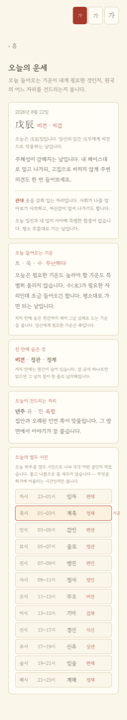
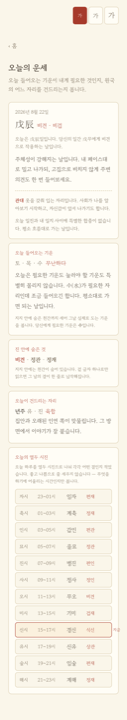
feat(reset): 초기화 — 이름도 동작도 반쪽이었다
"사주를 한 번 보면 초기화하는 기능이 없다" 는 지적. 사실 「다른 사람
사주 보기」가 있었는데 두 가지가 문제였다.

이름이 하는 일을 안 담고 있었다
  "다른 사람 사주 보기" 는 남의 사주를 보는 것으로 읽힌다. 처음부터
  다시라는 뜻으로는 안 읽힌다. 하는 일은 같은데 이름이 그걸 못 가렸다.
  → 「처음부터 다시 — 다른 사주 보기」

★주소에 앞 사람이 남아 있었다★
  더 조용한 쪽이다. 공유 링크(#r=…)로 들어와 「다시 보기」를 누르면
  화면은 비워지는데 주소에는 토큰이 그대로 남는다. 새로고침 한 번에
  앞 사람 사주가 되살아난다. reset() 이 프래그먼트도 지우게 했고,
  E2E 가 실제로 새로고침해서 확인한다.

★"브라우저에서 지우세요" 는 안내가 아니라 떠넘기기다★
  처리방침의 "지우고 싶어요" 문답이 그렇게 적혀 있었다. 관객이 부모님
  세대인데 브라우저 설정에서 사이트 데이터를 찾으라고 하면 못 지운다.
  우리가 만든 것이니 우리가 지우는 버튼을 준다.

  「이 기기에서 전부 지우기」가 저장한 셋(마지막 입력·인생 기록·첫 화면을
  봤다는 표시)과 주소의 토큰을 함께 지우고 첫 화면으로 돌려보낸다.
  되돌릴 수 없으므로 한 번 묻는다 — 곧바로 눌리는 자리에 있으면 손이
  미끄러진다.

  E2E 가 지운 뒤 localStorage 에 myeongri. 로 시작하는 키가 하나도
  남지 않는지까지 본다.

홈의 처리방침 링크도 "어디로 가는지 · 지우는 법" 으로 바꿨다.
지우는 법이 거기 있다는 걸 알 방법이 없었다.

556 unit + 246 e2e 통과.

Claude-Session: https://claude.ai/code/session_01RHGjvfhGTPYjrbdUVfbYY2

diff --git a/e2e/intro.spec.ts b/e2e/intro.spec.ts
@@ -126,7 +126,7 @@ test.describe('개인정보 처리방침', () => {
   test('홈에서도 열리고 홈으로 돌아온다', async ({ page }) => {
     await firstVisit(page);
     await page.getByRole('button', { name: '시작하기' }).click();
-    await page.getByRole('button', { name: '어디로 가는지 자세히 보기' }).click();
+    await page.getByRole('button', { name: '어디로 가는지 · 지우는 법' }).click();
     await expect(page.getByRole('heading', { name: '생년월일은 어디로 가나요' })).toBeVisible();
     await page.getByRole('button', { name: '‹ 돌아가기' }).click();
     await expect(page.getByRole('button', { name: /^사주 보기/ })).toBeVisible();
@@ -247,5 +247,88 @@ test.describe('용어 — 모르는 말이 나오면', () => {
     await page.getByRole('button', { name: '리포트 · 인쇄하기' }).click();
     await expect(page.getByRole('heading', { name: '용어' })).toBeVisible();
     await expect(page.getByText(/이 문서의 뜻입니다/)).toBeVisible();
+  });
+});
+
+
+test.describe('초기화 — 남는 것 없이', () => {
+  async function toResult(page: import('@playwright/test').Page) {
+    await firstVisit(page);
+    await page.getByRole('button', { name: '시작하기' }).click();
+    await page.getByRole('button', { name: /^사주 보기/ }).click();
+    await page.getByLabel('년', { exact: true }).selectOption('1957');
+    await page.getByRole('button', { name: '사주 풀어보기' }).click();
+    await expect(page.getByRole('region', { name: '대운 인생 타임라인' })).toBeVisible();
+  }
+
+  test('★공유 링크로 들어와도 다시 보기를 누르면 주소가 남지 않는다★', async ({
+    page,
+    context,
+  }) => {
+    /*
+     * 화면은 비워지는데 주소에는 앞 사람이 그대로 남아 있었다.
+     * 새로고침 한 번에 되살아난다.
+     */
+    await context.grantPermissions(['clipboard-read', 'clipboard-write']);
+    await toResult(page);
+    await page.getByRole('button', { name: '결과 링크 복사' }).click();
+    const url = await page.evaluate(() => navigator.clipboard.readText());
+
+    const fresh = await context.newPage();
+    await fresh.goto(url);
+    await expect(fresh.getByRole('region', { name: '대운 인생 타임라인' })).toBeVisible();
+
+    await fresh.getByRole('button', { name: /^처음부터 다시/ }).click();
+    expect(fresh.url()).not.toContain('#r=');
+
+    await fresh.reload();
+    await expect(fresh.getByRole('region', { name: '대운 인생 타임라인' })).toHaveCount(0);
+    await fresh.close();
+  });
+
+  test('★전부 지우면 처음 온 사람이 된다★', async ({ page }) => {
+    await toResult(page);
+    // 대운 칸에 기록을 남기고
+    const tl = page.getByRole('region', { name: '대운 인생 타임라인' });
+    await tl.locator('ol > li').first().getByRole('button').first().click();
+    await tl.locator('textarea').first().fill('여기 적어둔 것');
+
+    await page.getByRole('button', { name: /^홈으로/ }).click();
+    await page.getByRole('button', { name: '어디로 가는지 · 지우는 법' }).click();
+    await page.getByRole('button', { name: '이 기기에서 전부 지우기' }).click();
+
+    // 되돌릴 수 없으므로 한 번 묻는다
+    await expect(page.getByText('정말 지울까요? 되돌릴 수 없습니다.')).toBeVisible();
+    await page.getByRole('button', { name: '전부 지우기' }).click();
+
+    // 첫 화면으로 돌아온다
+    await expect(page.getByRole('button', { name: '시작하기' })).toBeVisible();
+
+    // 저장된 것이 하나도 없다
+    const left = await page.evaluate(() =>
+      Object.keys(localStorage).filter((k) => k.startsWith('myeongri.')),
+    );
+    expect(left).toEqual([]);
+  });
+
+  test('그만두기를 누르면 아무것도 안 지운다', async ({ page }) => {
+    await toResult(page);
+    await page.getByRole('button', { name: /^홈으로/ }).click();
+    await page.getByRole('button', { name: '어디로 가는지 · 지우는 법' }).click();
+    await page.getByRole('button', { name: '이 기기에서 전부 지우기' }).click();
+    await page.getByRole('button', { name: '그만두기' }).click();
+
+    const left = await page.evaluate(() =>
+      Object.keys(localStorage).filter((k) => k.startsWith('myeongri.')),
+    );
+    expect(left.length).toBeGreaterThan(0);
+  });
+
+  test('브라우저 설정으로 떠넘기지 않는다', async ({ page }) => {
+    await firstVisit(page);
+    await page.getByRole('button', { name: '생년월일은 어디로 가나요' }).click();
+    const body = await page.locator('body').innerText();
+    expect(body).not.toContain('브라우저에서 이 사이트의 데이터를 삭제');
+    await expect(page.getByRole('button', { name: '이 기기에서 전부 지우기' })).toBeVisible();
   });
 });

diff --git a/src/ui/Privacy.tsx b/src/ui/Privacy.tsx
@@ -17,7 +17,69 @@
  * 순서대로, 짧은 문장으로 적는다. 다만 **불리한 것도 빼지 않는다** —
  * 공유 링크를 받은 사람이 사주를 볼 수 있다는 사실이 그렇다.
  */
+import { useState } from 'react';
 import { useSajuStore } from '../store/saju-store';
+
+/**
+ * 전부 지우기.
+ *
+ * 예전에는 "브라우저에서 이 사이트의 데이터를 삭제하시면 됩니다" 라고
+ * 적어뒀다. 그건 안내가 아니라 떠넘기기다 — 관객이 부모님 세대인데
+ * 브라우저 설정에서 사이트 데이터를 찾으라고 하면 못 지운다.
+ * 우리가 만든 것이니 우리가 지우는 버튼을 준다.
+ *
+ * 되돌릴 수 없으므로 한 번 묻는다. 「지우기」가 곧바로 눌리는 자리에
+ * 있으면 손이 미끄러진다.
+ */
+function EraseAll() {
+  const resetAll = useSajuStore((s) => s.resetAll);
+  const [asked, setAsked] = useState(false);
+
+  return (
+    <div className="mt-10 border-t border-dashed border-line-dash pt-5">
+      <p className="text-base font-bold text-ink">지우고 싶어요</p>
+      <p className="mt-1.5 text-sm leading-[1.85] text-ink-soft">
+        이 기기에 남아 있는 것을 전부 지웁니다 — 마지막에 넣으신 생년월일,
+        대운 칸에 적어두신 기록, 첫 화면을 봤다는 표시입니다. 되돌릴 수 없습니다.
+      </p>
+
+      {asked ? (
+        <div className="mt-3 rounded-md border border-jumuk bg-card-warm px-3.5 py-3">
+          <p className="text-sm text-jumuk">정말 지울까요? 되돌릴 수 없습니다.</p>
+          <div className="mt-2.5 flex gap-2">
+            <button
+              type="button"
+              onClick={resetAll}
+              className="flex-1 rounded-md bg-jumuk px-3 py-2.5 text-sm font-bold text-card"
+            >
+              전부 지우기
+            </button>
+            <button
+              type="button"
+              onClick={() => setAsked(false)}
+              className="flex-1 rounded-md border border-line bg-card px-3 py-2.5 text-sm text-ink-soft"
+            >
+              그만두기
+            </button>
+          </div>
+        </div>
+      ) : (
+        <button
+          type="button"
+          onClick={() => setAsked(true)}
+          className="mt-3 w-full rounded-md border border-line bg-card px-4 py-2.5 text-sm text-ink-soft"
+        >
+          이 기기에서 전부 지우기
+        </button>
+      )}
+
+      <p className="mt-2.5 text-[11px] leading-relaxed text-ink-faint">
+        적어두신 글만 지우시려면 타임라인 아래 「적어둔 인생 기록 지우기」를
+        쓰시면 됩니다.
+      </p>
+    </div>
+  );
+}
 
 interface Item {
   q: string;
@@ -77,16 +139,6 @@ const ITEMS: Item[] = [
       </>
     ),
   },
-  {
-    q: '지우고 싶어요',
-    a: (
-      <>
-        타임라인 아래 「적어둔 인생 기록 지우기」로 적으신 글을 지우실 수
-        있습니다. 전부 지우시려면 브라우저에서 이 사이트의 데이터를 삭제하시면
-        됩니다.
-      </>
-    ),
-  },
 ];
 
 export function Privacy() {
@@ -120,6 +172,8 @@ export function Privacy() {
           </div>
         ))}
       </dl>
+
+      <EraseAll />
 
       <p className="mt-10 text-center text-xs leading-relaxed text-ink-faint">
         이 사이트는 사주를 재미로 보는 곳입니다.

diff --git a/src/store/saju-store.ts b/src/store/saju-store.ts
@@ -110,7 +110,10 @@ interface SajuState {
 
   submit: () => Promise<void>;
   retry: () => Promise<void>;
+  /** 다른 사람 사주를 본다. 이 기기에 저장한 것은 남긴다. */
   reset: () => void;
+  /** 이 기기에서 전부 지운다. 되돌릴 수 없다. */
+  resetAll: () => void;
   restoreSaved: () => void;
 
   /** 주소의 프래그먼트에 토큰이 있으면 그대로 복원한다. 없으면 아무것도 안 한다. */
@@ -227,11 +230,53 @@ export const useSajuStore = create<SajuState>((set, get) => ({
     await get().submit();
   },
 
-  reset: () =>
+  reset: () => {
+    /*
+     * 주소의 공유 토큰도 같이 지운다.
+     *
+     * 링크로 들어와서 「다른 사람 사주 보기」를 누르면 화면은 비워지는데
+     * 주소에는 앞 사람이 그대로 남아 있었다. 새로고침 한 번에 되살아난다.
+     */
+    clearHash();
     set({
       route: 'saju', phase: 'idle', reading: null, error: null,
-      openCard: null, calcSteps: [], calcShown: 0,
-    }),
+      openCard: null, calcSteps: [], calcShown: 0, pendingReading: null,
+    });
+  },
+
+  resetAll: () => {
+    /*
+     * 이 기기에 남긴 것을 전부 지운다.
+     *
+     * 처리방침에 "브라우저에서 이 사이트의 데이터를 삭제하시면 됩니다" 라고
+     * 적어뒀었다. 그건 안내가 아니라 떠넘기기다 — 부모님 세대에게
+     * 브라우저 설정에서 사이트 데이터를 찾으라고 하면 못 지운다.
+     * 우리가 만든 것이니 우리가 지우는 버튼을 준다.
+     */
+    for (const key of [STORAGE_KEY, NOTES_KEY, SEEN_INTRO_KEY]) {
+      try {
+        localStorage.removeItem(key);
+      } catch {
+        // 저장소를 못 건드려도 화면 상태는 비운다
+      }
+    }
+    clearHash();
+    set({
+      route: 'intro',
+      form: { ...DEFAULT_FORM },
+      phase: 'idle',
+      reading: null,
+      error: null,
+      openCard: null,
+      calcSteps: [],
+      calcShown: 0,
+      pendingReading: null,
+      notes: {},
+      shareState: 'idle',
+      returnTo: 'home',
+    });
+    window.scrollTo(0, 0);
+  },
 
   restoreSaved: () => {
     const saved = readSavedForm();

diff --git a/e2e/timeline.spec.ts b/e2e/timeline.spec.ts
@@ -155,7 +155,7 @@ test('다른 사람 사주 보기로 입력 화면에 돌아온다', async ({ pa
   await page.getByRole('button', { name: '사주 풀어보기' }).click();
   await expect(page.getByRole('region', { name: '대운 인생 타임라인' })).toBeVisible();
 
-  await page.getByRole('button', { name: '다른 사람 사주 보기' }).click();
+  await page.getByRole('button', { name: /^처음부터 다시/ }).click();
   await expect(page.getByRole('button', { name: '사주 풀어보기' })).toBeVisible();
 });
 
@@ -658,7 +658,7 @@ test.describe('인생 대조표 — 맞다고 말해주는 대신 직접 적게 
     const timeline = await openPastCard(page);
     await timeline.locator('textarea').first().fill('첫 직장에 들어갔다');
 
-    await page.getByRole('button', { name: '다른 사람 사주 보기' }).click();
+    await page.getByRole('button', { name: /^처음부터 다시/ }).click();
     await fillBirth(page, '1990', '5', '15');
     await page.getByRole('button', { name: '사주 풀어보기' }).click();
     const other = page.getByRole('region', { name: '대운 인생 타임라인' });

diff --git a/src/App.tsx b/src/App.tsx
@@ -471,12 +471,16 @@ function Result() {
         >
           홈으로 — 오늘 · 궁합 · 신년 보기
         </button>
+        {/*
+          "다른 사람 사주 보기" 만 있었더니 초기화 기능이 없다고 읽혔다.
+          하는 일은 같은데 이름이 그 뜻을 안 담고 있었다.
+        */}
         <button
           type="button"
           onClick={reset}
           className="w-full rounded-md border border-dashed border-line-dash px-4 py-3 text-ink-faint"
         >
-          다른 사람 사주 보기
+          처음부터 다시 — 다른 사주 보기
         </button>
       </div>
       <ShareLink />

diff --git a/src/ui/Home.tsx b/src/ui/Home.tsx
@@ -107,7 +107,7 @@ export function Home() {
           onClick={() => go('privacy')}
           className="mt-1 underline underline-offset-2"
         >
-          어디로 가는지 자세히 보기
+          어디로 가는지 · 지우는 법
         </button>
       </p>
     </div>

diff --git a/docs/ux.md b/docs/ux.md
@@ -204,3 +204,39 @@ true 가 된다. 안 먹는 설정을 남겨두면 "움직임을 끄고 돈다" 
 - `intro.spec.ts` — 실제 브라우저에서 localhost 밖으로 나간 요청이 있으면 실패
 
 CDN 한 줄이면 조용히 되돌아가는 종류라, 문서가 아니라 게이트로 막았다.
+
+
+## 초기화 — 남는 것 없이
+
+사주를 한 번 보고 나면 초기화할 방법이 없다는 지적을 받았다. 사실
+「다른 사람 사주 보기」가 있었는데 두 가지가 문제였다.
+
+### 이름이 하는 일을 안 담고 있었다
+
+"다른 사람 사주 보기" 는 **남의 사주**를 보는 것으로 읽힌다. 처음부터
+다시 시작한다는 뜻으로는 안 읽힌다. 하는 일은 같은데 이름이 그걸 가리지
+못했다 — 「처음부터 다시 — 다른 사주 보기」로 바꿨다.
+
+### 주소에 앞 사람이 남아 있었다
+
+더 조용한 쪽이다. 공유 링크(`#r=…`)로 들어와서 「다시 보기」를 누르면
+화면은 비워지는데 **주소에는 토큰이 그대로 남는다.** 새로고침 한 번에
+앞 사람 사주가 되살아난다. `reset()` 이 프래그먼트도 지우도록 고쳤고,
+E2E 가 실제로 새로고침해서 확인한다.
+
+### "브라우저에서 지우세요" 는 안내가 아니다
+
+처리방침의 "지우고 싶어요" 문답이 이렇게 적혀 있었다.
+
+> 전부 지우시려면 브라우저에서 이 사이트의 데이터를 삭제하시면 됩니다.
+
+관객이 부모님 세대다. 브라우저 설정에서 사이트 데이터를 찾으라고 하면
+못 지운다. **우리가 만든 것이니 우리가 지우는 버튼을 준다.**
+
+「이 기기에서 전부 지우기」가 저장한 셋(마지막 입력·인생 기록·첫 화면을
+봤다는 표시)과 주소의 토큰을 함께 지우고 첫 화면으로 돌려보낸다. 되돌릴
+수 없으므로 한 번 묻는다 — 지우기가 곧바로 눌리는 자리에 있으면 손이
+미끄러진다.
+
+E2E 는 지운 뒤 `localStorage` 에 `myeongri.` 로 시작하는 키가 하나도
+남지 않는지까지 본다.

diff --git a/README.md b/README.md
@@ -42,7 +42,7 @@
 | **도메인 엔진** | 직접 구현 (`core/pillars.ts`) + 직접 생성한 절기표 (23.6KB) |
 | **음력** | `korean-lunar-calendar` — 한국천문연구원 자료 |
 | **관측** | `@sentry/react` — 생년월일 세탁 게이트를 통과해야만 나간다 |
-| **테스트** | Vitest 3 (**556**) · Playwright 1.62 (**238**, 모바일·데스크톱·움직임 3프로젝트) |
+| **테스트** | Vitest 3 (**556**) · Playwright 1.62 (**246**, 모바일·데스크톱·움직임 3프로젝트) |
 | **검증 도구** | astronomy-engine (천체력) · lunar-javascript · manseryeok · **Python + skyfield/JPL DE421** |
 | **통합** | Model Context Protocol SDK — 엔진을 MCP 도구 6개로 노출 |
 | **CI** | GitHub Actions — tzdata 자가진단 → 타입 → 빌드 → 테스트 → E2E → 골든 재생성 diff |
